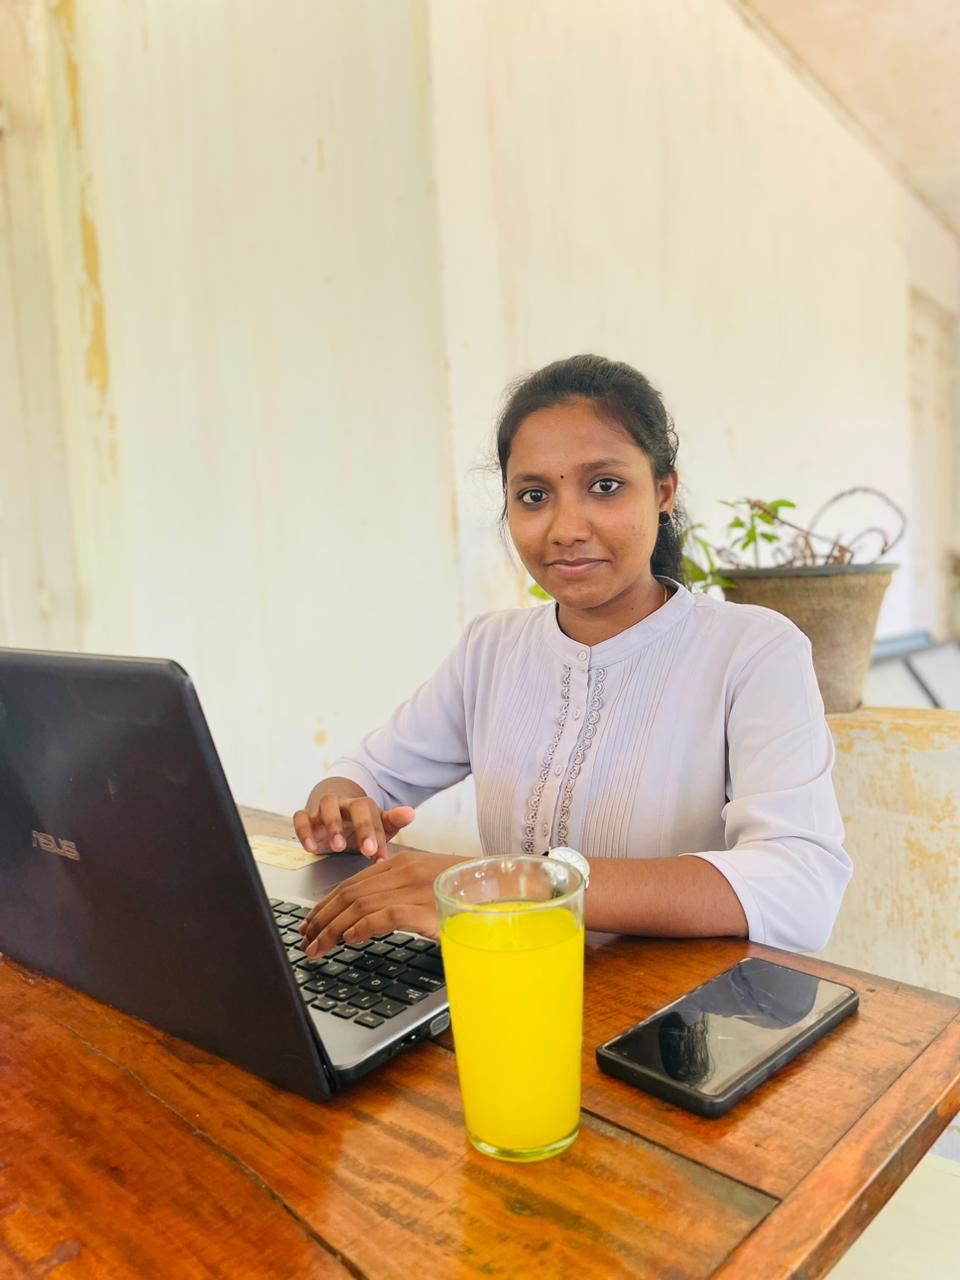
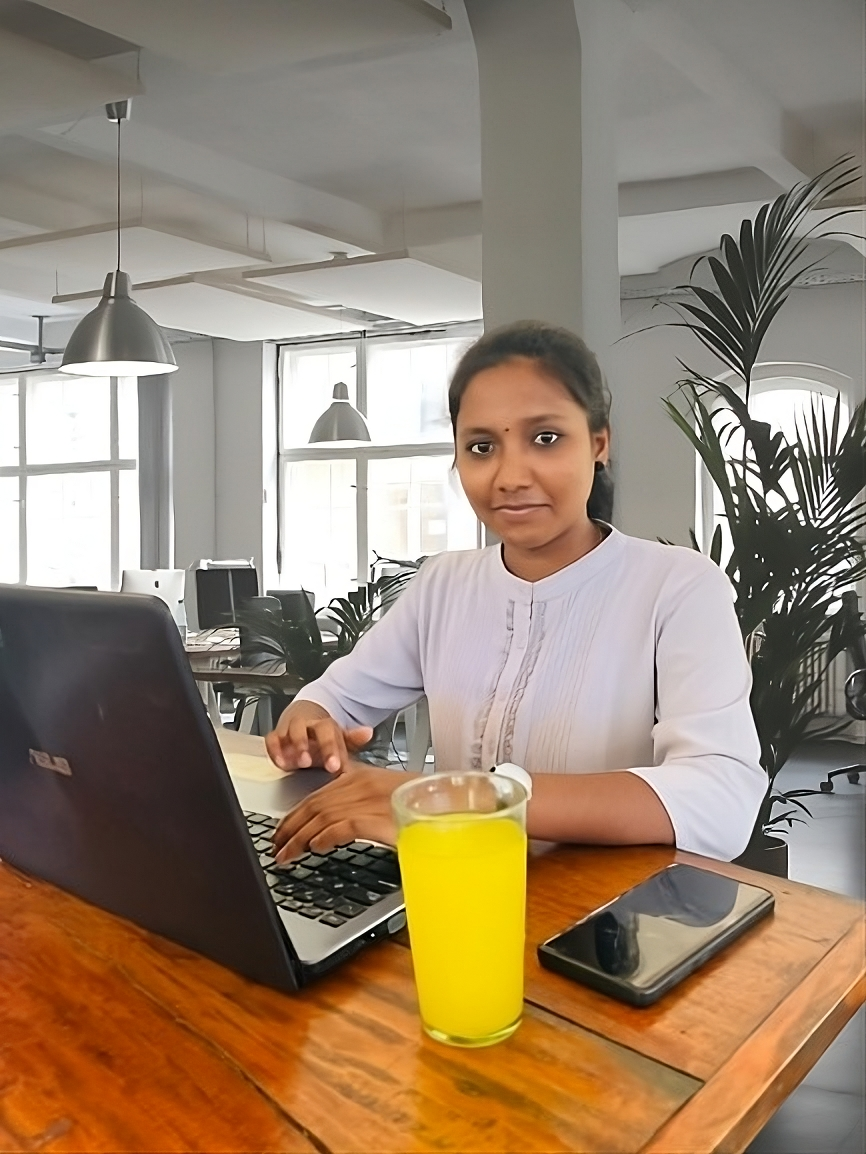
v5 ready for hosting aws

diff --git a/src/Pages/Home.jsx b/src/Pages/Home.jsx
@@ -11,7 +11,7 @@ import {
   User,
 } from "lucide-react";
 import { FaGithub, FaLinkedinIn, FaMedium } from "react-icons/fa";
-import Profile from "../assets/Images/1.png";
+import Profile from "../assets/Images/2.png";
 
 export default function Home() {
   useEffect(() => {
